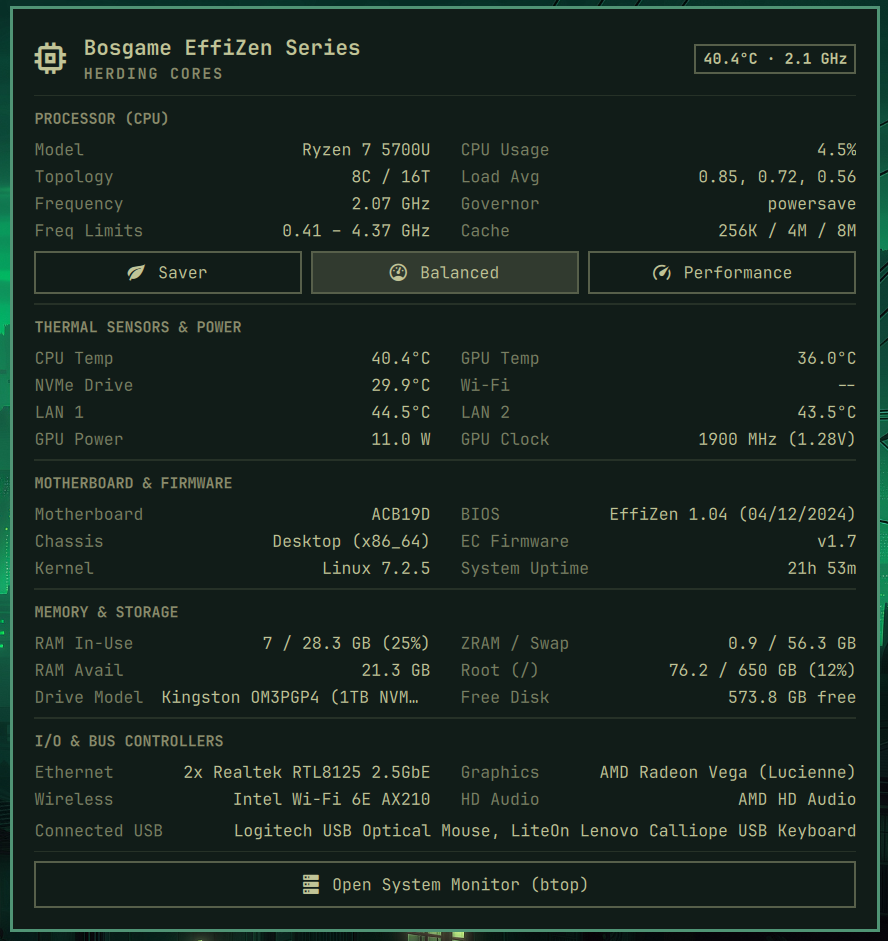
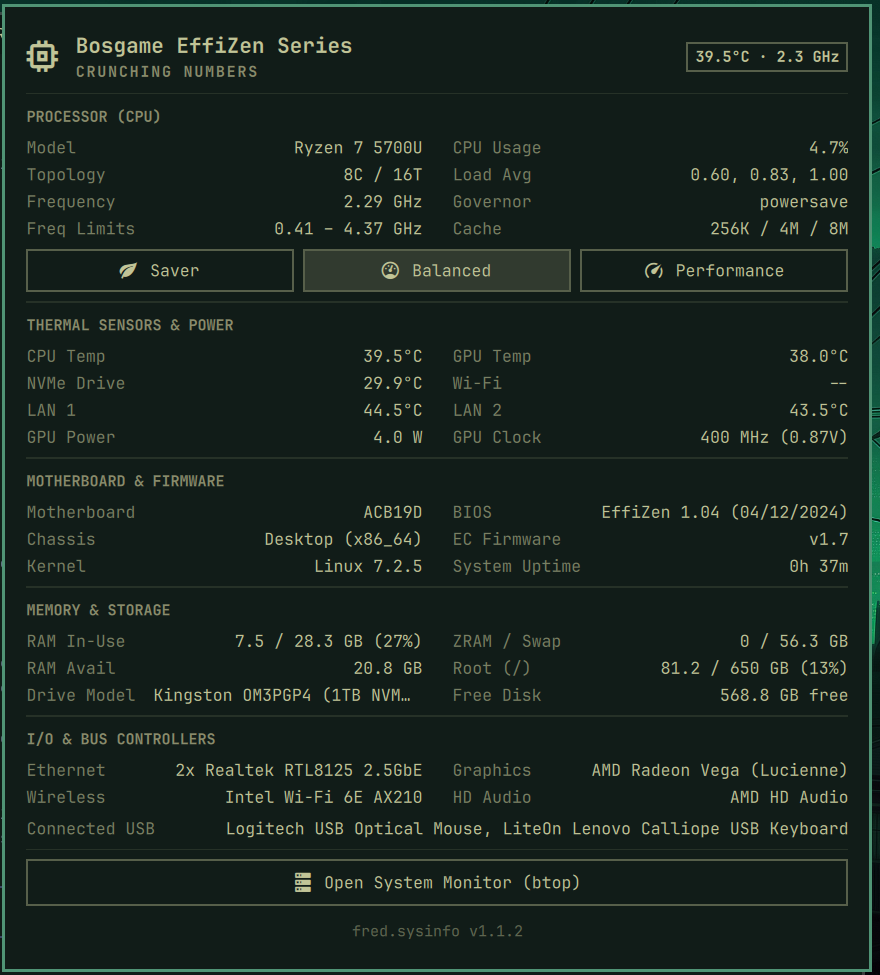
feat: publish resource hover (v1.1.2 pre-release)
AI-Tool: codex-cli 0.155.1

AI-Model: gpt-5.6-sol

diff --git a/desktop/plugins/fred.sysinfo/Panel.qml b/desktop/plugins/fred.sysinfo/Panel.qml
@@ -14,7 +14,7 @@ Panel {
   ipcTarget: "fred.sysinfo"
   manageIpc: false
 
-  readonly property string pluginVersion: "1.1.1"
+  readonly property string pluginVersion: "1.1.2"
 
   property var stats: ({})
   property int phraseIndex: 0
@@ -61,6 +61,11 @@ Panel {
         if (data.cpu && data.cpu.power_profile) {
           root.activeProfile = data.cpu.power_profile
         }
+        Qt.callLater(function() {
+          if (button.tooltipHovered && !root.opened && root.bar) {
+            root.bar.showTooltip(button, button.tooltipText)
+          }
+        })
       }
     } catch (e) {
       console.warn("sysinfo parse error:", e)
@@ -233,14 +238,15 @@ Panel {
     text: ""
     tooltipText: {
       var prod = (root.stats.system && root.stats.system.product) ? (root.stats.system.vendor + " " + root.stats.system.product) : "System Hardware"
-      var temp = (root.stats.cpu && root.stats.cpu.temp_c) ? (root.stats.cpu.temp_c.toFixed(1) + "°C") : ""
-      var freq = (root.stats.cpu && root.stats.cpu.avg_freq_mhz) ? ((root.stats.cpu.avg_freq_mhz / 1000).toFixed(1) + " GHz") : ""
-      var parts = [prod]
-      if (temp) parts.push(temp)
-      if (freq) parts.push(freq)
-      var base = parts.join(" · ")
+      var cpuUsage = (root.stats.cpu && root.stats.cpu.usage_percent !== undefined && root.stats.cpu.usage_percent !== null) ? root.stats.cpu.usage_percent.toFixed(1) + "%" : "--"
+      var ramAvailable = (root.stats.memory && root.stats.memory.avail_gb !== undefined && root.stats.memory.avail_gb !== null) ? root.stats.memory.avail_gb.toFixed(1) + " GB available" : "--"
+      var diskFree = (root.stats.storage && root.stats.storage.free_gb !== undefined && root.stats.storage.free_gb !== null) ? root.stats.storage.free_gb.toFixed(1) + " GB free" : "--"
+      var resources = "CPU " + cpuUsage + " · RAM " + ramAvailable + " · Disk " + diskFree
       var ver = "fred.sysinfo v" + root.pluginVersion
-      return base !== "" ? (base + "\n\n" + ver) : ver
+      return prod + "\n" + resources + "\n\n" + ver
+    }
+    onTooltipHoveredChanged: {
+      if (tooltipHovered && !root.opened) root.refresh()
     }
     onPressed: function(b) { root.toggle() }
   }

diff --git a/desktop/plugins/fred.sysinfo/AI_PROVENANCE.md b/desktop/plugins/fred.sysinfo/AI_PROVENANCE.md
@@ -11,7 +11,7 @@ Rather than relying on a single AI model or interface, Fred uses a specialized t
 | Tool & Interface | CLI Version | Backing Models | Primary Role in the Ecosystem |
 | :-- | :-- | :-- | :-- |
 | **Claude Code** (`claude`) | `2.1.267` | Claude Opus 5 (`claude-opus-5`) | **Architecture & System Planning**: Authoring durable system specifications, multi-step runbooks, and cross-cutting policies. |
-| **Codex CLI** (`codex`) | `0.154.0` | `gpt-6-astra`, `gpt-5.6-sol`, `gpt-5.6-terra` | **Architecture & System Planning**: Second opinion on plans and specifications alongside Claude. |
+| **Codex CLI** (`codex`) | `0.155.1` | `gpt-6-astra`, `gpt-5.6-sol`, `gpt-5.6-terra` | **Architecture & System Planning**: Second opinion on plans and specifications alongside Claude. |
 | **Antigravity CLI** (`agy`) | `1.2.2` / `1.2.6` | Gemini 3.8 Flash (High) | **Coding, Refactoring & Implementation**: Primary coding partner for multi-file pair-programming, security remediation, bash/Python/QML engineering, and git release workflow. |
 | **OpenCode** (`opencode`) | `1.18.30` | Big Pickle | **Distro & System Q&A**: Efficient lookups for Arch Linux / Omarchy package specifics and shell configuration, conserving frontier-model token budgets. |
 | **Grok CLI** (`grok`) | `1.0.25` (`f7e67d6988e2`, stable) | Grok 4.6 | **Workstation Support**: Additional debugging, hardware diagnostics, and alternative implementation analysis. |
@@ -25,5 +25,6 @@ Rather than relying on a single AI model or interface, Fred uses a specialized t
 | **Universal Linux Telemetry Engine & Popout Panel** | `v1.0.0` | Antigravity CLI (`agy 1.2.2`, `Gemini 3.8 Flash (High)`) | Designed pure-Python telemetry probe querying sysfs, procfs, hwmon, and PCI; built responsive Quickshell QML bar widget and popout panel with power profile switching and btop integration. |
 | **Multi-Monitor Focus Isolation & Per-Monitor Dismissal** | `v1.1.0` | Antigravity CLI (`agy 1.2.6`, `Gemini 3.8 Flash (High)`) | Implemented per-monitor focus isolation via custom `SysinfoPanel.qml` and `SysinfoStore.js`; eliminated cross-monitor dismiss twins and focus-stealing so background terminals/conversations retain focus; captured tightly cropped MSI monitor screenshot. |
 | **Version Footers & Visual Status** | `v1.1.1` | Antigravity CLI (`agy 1.2.6`, `Gemini 3.8 Flash (High)`) | Embedded running version in bar icon hover tooltip and as a centered, styled footer at the bottom of the open telemetry panel (`Panel.qml`). |
+| **Fresh Resource Hover & MSI Screenshots** | `v1.1.2` pre-release | Codex CLI (`codex 0.155.1`, `gpt-5.6-sol`) | Replaced the stale temperature/frequency hover with freshly probed CPU usage, available RAM, and free disk space; verified kernel hwmon temperature sources; captured updated hover and panel screenshots on the MSI display. |
 
 Detailed session logs and prompts are documented in [`docs/ai/sessions.md`](docs/ai/sessions.md).

diff --git a/desktop/plugins/fred.sysinfo/docs/ai/sessions.md b/desktop/plugins/fred.sysinfo/docs/ai/sessions.md
@@ -80,3 +80,31 @@ Chronological records of prompts, tool versions, and architectural decisions for
   - `omarchy plugin validate` clean with 0 errors.
   - Live bar verification via dev link, `omarchy-qmlcache-purge`, and shell restart.
 
+---
+
+## Session: 2026-09-20 — Resource Summary Hover & Public Screenshots (v1.1.2 pre-release)
+
+- **Date**: 2026-09-20
+- **Primary AI Agent**: Codex CLI (`codex 0.155.1`)
+- **Primary Model**: GPT-5.6 Sol (`gpt-5.6-sol`)
+- **Transcript Reference**: `01a0be6a-6329-77b2-9413-b4cd5b7e7971`
+- **Prompts**:
+  > "I don't understand what the temperature value the hover on fred.sysinfo is showing me. Let's replace that with CPU Usage, RAM available, and free disk space. Those are the values I'm usually most interested in. If I want to know temperatures, I can open the panel. Check whether the temperature values are reliable. I'm slightly concerned that we're just making up temperatures since the hover value seems unconnected to any of the other values."
+  >
+  > "Let's develop version 1.1.2 of fred.sysinfo to make this hover change."
+  >
+  > "I just hovered over fred.sysinfo and still see version 1.1.1. Why?"
+  >
+  > "Use the msi monitor to take screenshots of fred.sysinfo so you can update the hover view shown in out public GitHub repos. Make sure to push to both omarchy-fred-sysinfo and omarchy-fred-plugin (especially our plugin showcase HTML page). Ask if you have questions about how or why to do this."
+
+- **Key Decisions & Implementation Notes**:
+  - Replaced temperature and CPU frequency in the bar hover with freshly probed CPU usage, available RAM, and free root-disk space. Temperatures remain available in the full panel.
+  - Confirmed the temperature values come from Linux hwmon: AMD `k10temp` for CPU, AMDGPU edge for GPU, and NVMe composite for storage. The old hover mismatch came from stale tooltip data, not fabricated sensor values.
+  - Refreshes telemetry when the pointer enters the sysinfo icon and updates an already-visible tooltip after the probe returns.
+  - Captured authentic 1.1.2 hover and panel screenshots on the MSI MP161 (`DP-2`), tightly cropped to exclude unrelated desktop content.
+
+- **Verification**:
+  - `omarchy plugin validate` passed.
+  - Live shell loaded `Panel.qml` from the deployed development symlink and reported installed version 1.1.2.
+  - Screenshot text visibly reports `fred.sysinfo v1.1.2` and the new CPU/RAM/disk summary.
+  - Published to public `main` as a pre-release without creating a tag or GitHub Release.

diff --git a/desktop/plugins/fred.sysinfo/README.md b/desktop/plugins/fred.sysinfo/README.md
@@ -2,6 +2,8 @@
 
 Comprehensive hardware telemetry, thermal sensors, and system information bar plugin for [Omarchy Linux](https://omarchy.com) (Hyprland + Quickshell).
 
+![Resource summary hover](assets/hover.png)
+
 ![System Information Panel](assets/screenshot.png)
 
 ---
@@ -32,6 +34,7 @@ Comprehensive hardware telemetry, thermal sensors, and system information bar pl
   - Input collectors enforce payload caps to prevent unbounded memory allocation.
   - Safe clipboard copy invokes `wl-copy` without shell string interpolation vulnerabilities.
 - **Interactive Power Management:** Toggle system power profiles directly between Saver, Balanced, and Performance modes via `powerprofilesctl`.
+- **Fresh Resource Summary:** Hover over the bar icon for current CPU usage, available RAM, and free root-disk space without opening the full panel.
 - **System Monitor Integration:** Launch `btop` in your configured terminal with a single click from the panel footer.
 
 ---

diff --git a/desktop/plugins/fred.sysinfo/CHANGELOG.md b/desktop/plugins/fred.sysinfo/CHANGELOG.md
@@ -1,0 +1,8 @@
+# Changelog
+
+## [1.1.2] - Unreleased
+
+### Changed
+
+- The bar hover now shows current CPU usage, available RAM, and free root-disk space.
+- Entering the bar icon refreshes telemetry before the hover appears, preventing stale values from the widget's startup probe or previous panel session.
